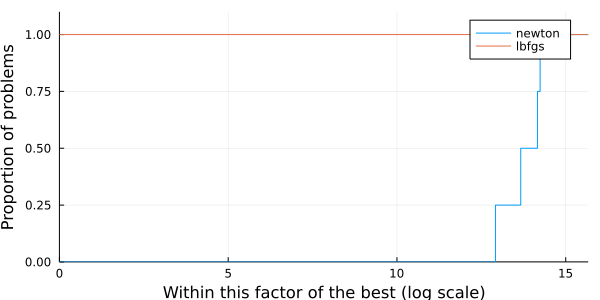
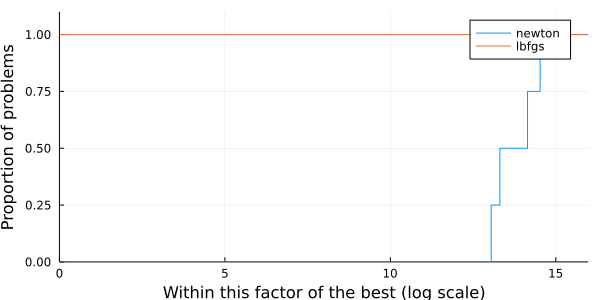
Deploying to gh-pages from  @ f07b95696bff437b7d0e0f80fd7fda0aaac611cb 🚀

diff --git a/index.html b/index.html
@@ -1,14 +1,14 @@
-<!doctype html> <html lang=en  class=has-navbar-fixed-top > <meta charset=UTF-8 > <meta name=viewport  content="width=device-width, initial-scale=1"> <link rel=stylesheet  href="/libs/katex/katex.min.css"> <link rel=stylesheet  href="/css/styles.css"> <style> html {font-size: 17px;} .franklin-content {position: relative; padding-left: 8%; padding-right: 5%; line-height: 1.35em;} @media (min-width: 940px) { .franklin-content {width: 100%; margin-left: auto; margin-right: auto;} } @media (max-width: 768px) { .franklin-content {padding-left: 6%; padding-right: 6%;} } </style> <link rel=icon  href="/assets/favicon.png"> <title>Template</title> <script src="/libs/highlight/highlight.pack.js"></script> <script type=module  src="https://unpkg.com/ionicons@5.5.2/dist/ionicons/ionicons.esm.js"></script> <script nomodule src="https://unpkg.com/ionicons@5.5.2/dist/ionicons/ionicons.js"></script> <script> hljs.getLanguage('julia').keywords.custom = 'obj grad hess AbstractNLPModel'; </script> <nav class="navbar is-primary is-fixed-top" role=navigation  aria-label="main navigation"> <div class=navbar-brand > <a class=navbar-item  href="https://jso-docs.github.io"> <img src="/assets/jso.png"> </a> <a role=button  class=navbar-burger  aria-label=menu  aria-expanded=false  data-target=navbarBasicExample > <span aria-hidden=true ></span> <span aria-hidden=true ></span> <span aria-hidden=true ></span> </a> </div> <div id=navbarBasicExample  class=navbar-menu > <div class=navbar-start > <a class=navbar-item  href="/"> Home </a> <a class=navbar-item  href="/tutorials"> Tutorials </a> <div class="navbar-item has-dropdown is-hoverable"> <a class=navbar-link  href="/ecosystems/index.html"> Ecosystems </a> <div class=navbar-dropdown > <a class=navbar-item  href="/ecosystems/linear-algebra"> Linear Algebra </a> <a class=navbar-item  href="/ecosystems/models"> Models </a> <a class=navbar-item  href="/ecosystems/solvers"> Solvers </a> </div> </div> <a class=navbar-item  href="/references"> References </a> <a class=navbar-item  href="/contributing"> Contributing </a> </div> <div class=navbar-end > <div class=navbar-item > </div> </div> </div> </nav> <section class=section > <div class=container > <div class=content ><div class=franklin-content ><h1 id=title ><a href="#title" class=header-anchor >Template</a></h1></p> <div class=author >by Abel S. Siqueira and João Okimoto</div> <p><img class=badge  src="https://img.shields.io/badge/ADNLPModels-0.3.1-hsl(27,100%25,30%25)?style=flat-square&labelColor=hsl(27,30%25,30%25)"> <img class=badge  src="https://img.shields.io/badge/JSOSolvers-0.7.3-hsl(110,100%25,30%25)?style=flat-square&labelColor=hsl(110,30%25,30%25)"> <img class=badge  src="https://img.shields.io/badge/LinearAlgebra-nothing-666?style=flat-square&labelColor=999"> <img class=badge  src="https://img.shields.io/badge/NLPModels-0.18.0-hsl(193,100%25,30%25)?style=flat-square&labelColor=hsl(193,30%25,30%25)"> <img class=badge  src="https://img.shields.io/badge/Plots-1.25.4-666?style=flat-square&labelColor=999"> <img class=badge  src="https://img.shields.io/badge/SolverBenchmark-0.5.0-hsl(304,100%25,30%25)?style=flat-square&labelColor=hsl(304,30%25,30%25)"> <img class=badge  src="https://img.shields.io/badge/SolverCore-0.2.2-hsl(332,100%25,30%25)?style=flat-square&labelColor=hsl(332,30%25,30%25)"> <p>In this tutorial you will learn what is a JSO-compliant solver, how to create one, and how to benchmark it against some other solver.</p> <div class=franklin-toc ><ol><li><a href="#what_is_a_jso-compliant_solver">What is a JSO-compliant solver</a><li><a href="#method_description">Method description</a><li><a href="#defining_a_test_problem_with_adnlpmodels_and_accessing_its_functions_with_the_nlpmodels_api">Defining a test problem with ADNLPModels and accessing its functions with the NLPModels API</a><li><a href="#improving_the_solver">Improving the solver</a><li><a href="#benchmarking">Benchmarking</a><li><a href="#performance_profiles">Performance profiles</a><li><a href="#improving_the_solver_more">Improving the solver more</a></ol></div> <h2 id=what_is_a_jso-compliant_solver ><a href="#what_is_a_jso-compliant_solver" class=header-anchor >What is a JSO-compliant solver</a></h2> <p>A JSO-compliant solver is a solver whose</p> <ul> <li><p>input is a model implementing the NLPModels API; and</p> <li><p>output is a specific struct from the package SolverCore.</p> </ul> <p>That means that you can devise your solver based on a single API that will work with many different problems. Furthermore, since the output type is known, we can provide tools to compare different solvers.</p> <p>To illustrate the procedure for creating a solver with the JSO API, we&#39;ll implement a Line-Search Modified Newton solver for the problem</p> \[ \min_x \ f(x) \] <h2 id=method_description ><a href="#method_description" class=header-anchor >Method description</a></h2> <p>The method consists of following the direction \(d_k\) that solves</p> \[ \nabla^2 f(x_k) d_k = -\nabla f(x_k) \] <p>This is only reasonable if the system can be solved and \(d_k\) is a descent direction. A sufficient condition for that is that \(\nabla^2 f(x_k)\) is positive definite, which is equivalent to saying that it has a Cholesky decomposition.</p> <p>Since this will not be true in general, the modified Newton method consists of computing \(\rho_k \geq 0\) such that \(\nabla^2 f(x_k) + \rho_k I\) is positive definite. One way to find such a \(\rho_k\) is given below</p> <pre><code class=language-julia >1. Start with ρ from the last iteration
+<!doctype html> <html lang=en  class=has-navbar-fixed-top > <meta charset=UTF-8 > <meta name=viewport  content="width=device-width, initial-scale=1"> <link rel=stylesheet  href="/creating-a-jso-compliant-solver/libs/katex/katex.min.css"> <link rel=stylesheet  href="/creating-a-jso-compliant-solver/css/styles.css"> <style> html {font-size: 17px;} .franklin-content {position: relative; padding-left: 8%; padding-right: 5%; line-height: 1.35em;} @media (min-width: 940px) { .franklin-content {width: 100%; margin-left: auto; margin-right: auto;} } @media (max-width: 768px) { .franklin-content {padding-left: 6%; padding-right: 6%;} } </style> <link rel=icon  href="/creating-a-jso-compliant-solver/assets/favicon.png"> <title>Template</title> <script src="/creating-a-jso-compliant-solver/libs/highlight/highlight.pack.js"></script> <script type=module  src="https://unpkg.com/ionicons@5.5.2/dist/ionicons/ionicons.esm.js"></script> <script nomodule src="https://unpkg.com/ionicons@5.5.2/dist/ionicons/ionicons.js"></script> <script> hljs.getLanguage('julia').keywords.custom = 'obj grad hess AbstractNLPModel'; </script> <nav class="navbar is-primary is-fixed-top" role=navigation  aria-label="main navigation"> <div class=navbar-brand > <a class=navbar-item  href="https://jso-docs.github.io"> <img src="/creating-a-jso-compliant-solver/assets/jso.png"> </a> <a role=button  class=navbar-burger  aria-label=menu  aria-expanded=false  data-target=navbarBasicExample > <span aria-hidden=true ></span> <span aria-hidden=true ></span> <span aria-hidden=true ></span> </a> </div> <div id=navbarBasicExample  class=navbar-menu > <div class=navbar-start > <a class=navbar-item  href="/creating-a-jso-compliant-solver/"> Home </a> <a class=navbar-item  href="/creating-a-jso-compliant-solver/tutorials"> Tutorials </a> <div class="navbar-item has-dropdown is-hoverable"> <a class=navbar-link  href="/creating-a-jso-compliant-solver/ecosystems/index.html"> Ecosystems </a> <div class=navbar-dropdown > <a class=navbar-item  href="/creating-a-jso-compliant-solver/ecosystems/linear-algebra"> Linear Algebra </a> <a class=navbar-item  href="/creating-a-jso-compliant-solver/ecosystems/models"> Models </a> <a class=navbar-item  href="/creating-a-jso-compliant-solver/ecosystems/solvers"> Solvers </a> </div> </div> <a class=navbar-item  href="/creating-a-jso-compliant-solver/references"> References </a> <a class=navbar-item  href="/creating-a-jso-compliant-solver/contributing"> Contributing </a> </div> <div class=navbar-end > <div class=navbar-item > </div> </div> </div> </nav> <section class=section > <div class=container > <div class=content ><div class=franklin-content ><h1 id=title ><a href="#title" class=header-anchor >Template</a></h1></p> <div class=author >by Abel S. Siqueira and João Okimoto</div> <p><img class=badge  src="https://img.shields.io/badge/ADNLPModels-0.3.1-hsl(27,100%25,30%25)?style=flat-square&labelColor=hsl(27,30%25,30%25)"> <img class=badge  src="https://img.shields.io/badge/JSOSolvers-0.7.3-hsl(110,100%25,30%25)?style=flat-square&labelColor=hsl(110,30%25,30%25)"> <img class=badge  src="https://img.shields.io/badge/LinearAlgebra-nothing-666?style=flat-square&labelColor=999"> <img class=badge  src="https://img.shields.io/badge/NLPModels-0.18.0-hsl(193,100%25,30%25)?style=flat-square&labelColor=hsl(193,30%25,30%25)"> <img class=badge  src="https://img.shields.io/badge/Plots-1.25.4-666?style=flat-square&labelColor=999"> <img class=badge  src="https://img.shields.io/badge/SolverBenchmark-0.5.0-hsl(304,100%25,30%25)?style=flat-square&labelColor=hsl(304,30%25,30%25)"> <img class=badge  src="https://img.shields.io/badge/SolverCore-0.2.2-hsl(332,100%25,30%25)?style=flat-square&labelColor=hsl(332,30%25,30%25)"> <p>In this tutorial you will learn what is a JSO-compliant solver, how to create one, and how to benchmark it against some other solver.</p> <div class=franklin-toc ><ol><li><a href="#what_is_a_jso-compliant_solver">What is a JSO-compliant solver</a><li><a href="#method_description">Method description</a><li><a href="#defining_a_test_problem_with_adnlpmodels_and_accessing_its_functions_with_the_nlpmodels_api">Defining a test problem with ADNLPModels and accessing its functions with the NLPModels API</a><li><a href="#improving_the_solver">Improving the solver</a><li><a href="#benchmarking">Benchmarking</a><li><a href="#performance_profiles">Performance profiles</a><li><a href="#improving_the_solver_more">Improving the solver more</a></ol></div> <h2 id=what_is_a_jso-compliant_solver ><a href="#what_is_a_jso-compliant_solver" class=header-anchor >What is a JSO-compliant solver</a></h2> <p>A JSO-compliant solver is a solver whose</p> <ul> <li><p>input is a model implementing the NLPModels API; and</p> <li><p>output is a specific struct from the package SolverCore.</p> </ul> <p>That means that you can devise your solver based on a single API that will work with many different problems. Furthermore, since the output type is known, we can provide tools to compare different solvers.</p> <p>To illustrate the procedure for creating a solver with the JSO API, we&#39;ll implement a Line-Search Modified Newton solver for the problem</p> \[ \min_x \ f(x) \] <h2 id=method_description ><a href="#method_description" class=header-anchor >Method description</a></h2> <p>The method consists of following the direction \(d_k\) that solves</p> \[ \nabla^2 f(x_k) d_k = -\nabla f(x_k) \] <p>This is only reasonable if the system can be solved and \(d_k\) is a descent direction. A sufficient condition for that is that \(\nabla^2 f(x_k)\) is positive definite, which is equivalent to saying that it has a Cholesky decomposition.</p> <p>Since this will not be true in general, the modified Newton method consists of computing \(\rho_k \geq 0\) such that \(\nabla^2 f(x_k) + \rho_k I\) is positive definite. One way to find such a \(\rho_k\) is given below</p> <pre><code class=language-julia >1. Start with ρ from the last iteration
 2. Try to compute the Cholesky factor of ∇²f&#40;x&#41; &#43; ρI
 3. If not successful, increase ρ to either 1e-8 or 10ρ, whichever is largest, and return to step 2
 4. Otherwise, continue the algorithm</code></pre> <p>Next, for the line-search part, we use backtracking and ask that the Armijo condition be satisfied, that is find the smallest \(p \in \mathbb{N}\) such that \(t = σ^p\) satisfies</p> \[ f(x_k + td_k) < f(x_k) + \alpha t g_k^T d_k, \] <p>for \(\alpha \in (0,1)\), called the Armijo parameter.</p> <h2 id=defining_a_test_problem_with_adnlpmodels_and_accessing_its_functions_with_the_nlpmodels_api ><a href="#defining_a_test_problem_with_adnlpmodels_and_accessing_its_functions_with_the_nlpmodels_api" class=header-anchor >Defining a test problem with ADNLPModels and accessing its functions with the NLPModels API</a></h2> <p>Let&#39;s define a test problem to verify that our method is working, and let&#39;s use a classic one: Rosenbrock&#39;s function<sup id="fnref:1"><a href="#fndef:1" class=fnref >[1]</a></sup></p> \[ \min_x \ (x_1 - 1)^2 + 4 (x_2 - x_1^2)^2, \] <p>starting from point &#91;-1.2; 1.0&#93;.</p> <pre><code class=language-julia >using Plots
 gr&#40;size&#61;&#40;600,300&#41;&#41;
-contour&#40;-2:0.02:2, -0.5:0.02:1.5, &#40;x,y&#41; -&gt; &#40;x - 1&#41;^2 &#43; 4 * &#40;y - x^2&#41;^2, levels&#61;&#40;0:0.2:10&#41;.^2&#41;</code></pre> <img src="/assets/index/code/output/prob1.png" alt="Contour plot of objective"> <p>Notice that the solution of the problem, i.e., the point at which the function is minimum, is \(x = (1,1)^T\). This can be estimated by the plot and verified by noticing that \(f(1,1) = 0\) and \(f(x) > 0\) for any other point.</p> <p>To write this problem as a NLPModel, we have a few options, but for now let&#39;s consider the simplest one: ADNLPModels. ADNLPModels has a simple interface and it computes the derivatives using automatic differentiation from other packages.</p> <pre><code class=language-julia >using ADNLPModels
+contour&#40;-2:0.02:2, -0.5:0.02:1.5, &#40;x,y&#41; -&gt; &#40;x - 1&#41;^2 &#43; 4 * &#40;y - x^2&#41;^2, levels&#61;&#40;0:0.2:10&#41;.^2&#41;</code></pre> <img src="/creating-a-jso-compliant-solver/assets/index/code/output/prob1.png" alt="Contour plot of objective"> <p>Notice that the solution of the problem, i.e., the point at which the function is minimum, is \(x = (1,1)^T\). This can be estimated by the plot and verified by noticing that \(f(1,1) = 0\) and \(f(x) > 0\) for any other point.</p> <p>To write this problem as a NLPModel, we have a few options, but for now let&#39;s consider the simplest one: ADNLPModels. ADNLPModels has a simple interface and it computes the derivatives using automatic differentiation from other packages.</p> <pre><code class=language-julia >using ADNLPModels
 
 nlp &#61; ADNLPModel&#40;
   x -&gt; &#40;x&#91;1&#93; - 1&#41;^2 &#43; 4 * &#40;x&#91;2&#93; - x&#91;1&#93;^2&#41;^2, # function
   &#91;-1.2; 1.0&#93; # starting point
-&#41;</code></pre><pre><code class="plaintext code-output">ADNLPModel - Model with automatic differentiation backend ADNLPModels.ForwardDiffAD{ForwardDiff.GradientConfig{ForwardDiff.Tag{var"#3#4", Float64}, Float64, 2, Vector{ForwardDiff.Dual{ForwardDiff.Tag{var"#3#4", Float64}, Float64, 2}}}}(3, 0, ForwardDiff.GradientConfig{ForwardDiff.Tag{var"#3#4", Float64}, Float64, 2, Vector{ForwardDiff.Dual{ForwardDiff.Tag{var"#3#4", Float64}, Float64, 2}}}((Partials(1.0, 0.0), Partials(0.0, 1.0)), ForwardDiff.Dual{ForwardDiff.Tag{var"#3#4", Float64}, Float64, 2}[Dual{ForwardDiff.Tag{var"#3#4", Float64}}(0.0,6.9173848625733e-310,6.9173851580222e-310), Dual{ForwardDiff.Tag{var"#3#4", Float64}}(0.0,6.9173848625733e-310,6.9173848572627e-310)]))
+&#41;</code></pre><pre><code class="plaintext code-output">ADNLPModel - Model with automatic differentiation backend ADNLPModels.ForwardDiffAD{ForwardDiff.GradientConfig{ForwardDiff.Tag{var"#3#4", Float64}, Float64, 2, Vector{ForwardDiff.Dual{ForwardDiff.Tag{var"#3#4", Float64}, Float64, 2}}}}(3, 0, ForwardDiff.GradientConfig{ForwardDiff.Tag{var"#3#4", Float64}, Float64, 2, Vector{ForwardDiff.Dual{ForwardDiff.Tag{var"#3#4", Float64}, Float64, 2}}}((Partials(1.0, 0.0), Partials(0.0, 1.0)), ForwardDiff.Dual{ForwardDiff.Tag{var"#3#4", Float64}, Float64, 2}[Dual{ForwardDiff.Tag{var"#3#4", Float64}}(0.0,6.94900583242587e-310,6.94900583242587e-310), Dual{ForwardDiff.Tag{var"#3#4", Float64}}(0.0,6.9490036918434e-310,6.94900368653276e-310)]))
   Problem name: Generic
    All variables: ████████████████████ 2      All constraints: ⋅⋅⋅⋅⋅⋅⋅⋅⋅⋅⋅⋅⋅⋅⋅⋅⋅⋅⋅⋅ 0     
             free: ████████████████████ 2                 free: ⋅⋅⋅⋅⋅⋅⋅⋅⋅⋅⋅⋅⋅⋅⋅⋅⋅⋅⋅⋅ 0     
@@ -46,7 +46,7 @@ obj&#40;nlp, x&#41;</code></pre><pre><code class="plaintext code-output">5.61440
 <pre><code class=language-julia >hess&#40;nlp, x&#41;</code></pre><pre><code class="plaintext code-output">2×2 LinearAlgebra.Symmetric{Float64, Matrix{Float64}}:
  55.12  19.2
  19.2    8.0</code></pre>
-<p>For our basic unconstrained solver that&#39;s enough. If you want more functions, check the <a href="/pages/references/NLPModels/">NLPModels reference guide</a>.</p>
+<p>For our basic unconstrained solver that&#39;s enough. If you want more functions, check the <a href="/creating-a-jso-compliant-solver/pages/references/NLPModels/">NLPModels reference guide</a>.</p>
 <p>Notice that the Hessian returned from <code>hess</code> has only the lower triangle. That&#39;s done, in general, to avoid storing repeated elements. In this dense case, this isn&#39;t much helpful, so we can simply use <code>Symmetric</code> to fill the rest.</p>
 <pre><code class=language-julia >using LinearAlgebra
 
@@ -70,8 +70,8 @@ while &#33;issuccess&#40;factor&#41;
   factor &#61; cholesky&#40;B &#43; ρ * I, check&#61;false&#41;
 end
 d &#61; factor \ -grad&#40;nlp, x&#41;</code></pre><pre><code class="plaintext code-output">2-element Vector{Float64}:
-  0.48672566371681447
- -0.7281415929203547</code></pre>
+  0.4867256637168144
+ -0.7281415929203545</code></pre>
 <p>The second part of our method is the step length computation. Let&#39;s use <code>α &#61; 1e-2</code> for our Armijo parameter.</p>
 <pre><code class=language-julia >α &#61; 1e-2
 t &#61; 1.0
@@ -244,7 +244,7 @@ print&#40;output&#41;</code></pre><pre><code class="plaintext code-output">Gener
   dual feasibility: 4.018046284781729e-9
   solution: [0.9999999986742657  0.9999999970013461]
   iterations: 18
-  elapsed time: 0.7924270629882812
+  elapsed time: 0.8486878871917725
 </code></pre>
 <p>And to compare both solvers, we need a collection of problems. Let&#39;s just create one manually for now.</p>
 <pre><code class=language-julia >problems &#61; &#91;
@@ -262,18 +262,18 @@ stats &#61; bmark_solvers&#40;solvers, problems&#41;</code></pre><pre><code clas
  Row │ id     name     nvar   ncon   nequ   status       objective     elapsed_time  iter   dual_feas  primal_feas  neval_obj  neval_grad  neval_cons  neval_jcon  neval_jgrad  neval_jac  neval_jprod  neval_jtprod  neval_hess  neval_hprod  neval_jhess  neval_jhprod  neval_residual  neval_jac_residual  neval_jprod_residual  neval_jtprod_residual  neval_hess_residual  neval_jhess_residual  neval_hprod_residual  extrainfo
      │ Int64  String   Int64  Int64  Int64  Symbol       Float64       Float64       Int64  Float64    Float64      Int64      Int64       Int64       Int64       Int64        Int64      Int64        Int64         Int64       Int64        Int64        Int64         Int64           Int64               Int64                 Int64                  Int64                Int64                 Int64                 String
 ─────┼────────────────────────────────────────────────────────────────────────────────────────────────────────────────────────────────────────────────────────────────────────────────────────────────────────────────────────────────────────────────────────────────────────────────────────────────────────────────────────────────────────────────────────────────────────────────────────────────────────────────────────────────
-   1 │     1  Generic      2      0      0  first_order   2.46519e-31      0.443663      1        Inf          0.0          3           4           0           0            0          0            0             0           1            0            0             0               0                   0                     0                      0                    0                     0                     0
-   2 │     2  Generic      2      0      0  first_order   3.74398e-21      0.511153     21        Inf          0.0         50          64           0           0            0          0            0             0          21            0            0             0               0                   0                     0                      0                    0                     0                     0
-   3 │     3  Generic      2      0      0  max_iter     -8.36356          0.443352    100        Inf          0.0        201         301           0           0            0          0            0             0         100            0            0             0               0                   0                     0                      0                    0                     0                     0
-   4 │     4  Generic      2      0      0  first_order   1.43195          0.476491      5        Inf          0.0         12          16           0           0            0          0            0             0           5            0            0             0               0                   0                     0                      0                    0                     0                     0
+   1 │     1  Generic      2      0      0  first_order   2.46519e-31      0.425986      1        Inf          0.0          3           4           0           0            0          0            0             0           1            0            0             0               0                   0                     0                      0                    0                     0                     0
+   2 │     2  Generic      2      0      0  first_order   3.74398e-21      0.534634     21        Inf          0.0         50          64           0           0            0          0            0             0          21            0            0             0               0                   0                     0                      0                    0                     0                     0
+   3 │     3  Generic      2      0      0  max_iter     -8.36356          0.453488    100        Inf          0.0        201         301           0           0            0          0            0             0         100            0            0             0               0                   0                     0                      0                    0                     0                     0
+   4 │     4  Generic      2      0      0  first_order   1.43195          0.494886      5        Inf          0.0         12          16           0           0            0          0            0             0           5            0            0             0               0                   0                     0                      0                    0                     0                     0
   :lbfgs => 4×31 DataFrame
  Row │ id     name     nvar   ncon   nequ   status       objective     elapsed_time  iter   dual_feas   primal_feas  neval_obj  neval_grad  neval_cons  neval_jcon  neval_jgrad  neval_jac  neval_jprod  neval_jtprod  neval_hess  neval_hprod  neval_jhess  neval_jhprod  neval_residual  neval_jac_residual  neval_jprod_residual  neval_jtprod_residual  neval_hess_residual  neval_jhess_residual  neval_hprod_residual  extrainfo
      │ Int64  String   Int64  Int64  Int64  Symbol       Float64       Float64       Int64  Float64     Float64      Int64      Int64       Int64       Int64       Int64        Int64      Int64        Int64         Int64       Int64        Int64        Int64         Int64           Int64               Int64                 Int64                  Int64                Int64                 Int64                 String
 ─────┼─────────────────────────────────────────────────────────────────────────────────────────────────────────────────────────────────────────────────────────────────────────────────────────────────────────────────────────────────────────────────────────────────────────────────────────────────────────────────────────────────────────────────────────────────────────────────────────────────────────────────────────────────
-   1 │     1  Generic      2      0      0  first_order   2.26824e-16    3.40939e-5      8  5.28297e-8          0.0         11          10           0           0            0          0            0             0           0            0            0             0               0                   0                     0                      0                    0                     0                     0
-   2 │     2  Generic      2      0      0  first_order   1.44561e-17    6.60419e-5     39  8.41132e-8          0.0         52          45           0           0            0          0            0             0           0            0            0             0               0                   0                     0                      0                    0                     0                     0
-   3 │     3  Generic      2      0      0  first_order  -8.37235        2.28882e-5     12  1.60958e-9          0.0         17          15           0           0            0          0            0             0           0            0            0             0               0                   0                     0                      0                    0                     0                     0
-   4 │     4  Generic      2      0      0  first_order   1.43195        2.59876e-5      9  4.18646e-9          0.0         11          11           0           0            0          0            0             0           0            0            0             0               0                   0                     0                      0                    0                     0                     0</code></pre>
+   1 │     1  Generic      2      0      0  first_order   2.26824e-16    4.19617e-5      8  5.28297e-8          0.0         11          10           0           0            0          0            0             0           0            0            0             0               0                   0                     0                      0                    0                     0                     0
+   2 │     2  Generic      2      0      0  first_order   1.44561e-17    6.31809e-5     39  8.41132e-8          0.0         52          45           0           0            0          0            0             0           0            0            0             0               0                   0                     0                      0                    0                     0                     0
+   3 │     3  Generic      2      0      0  first_order  -8.37235        2.5034e-5      12  1.60958e-9          0.0         17          15           0           0            0          0            0             0           0            0            0             0               0                   0                     0                      0                    0                     0                     0
+   4 │     4  Generic      2      0      0  first_order   1.43195        2.09808e-5      9  4.18646e-9          0.0         11          11           0           0            0          0            0             0           0            0            0             0               0                   0                     0                      0                    0                     0                     0</code></pre>
 <p>The results is a Dictionary of Symbols to DataFrame tables.</p>
 <pre><code class=language-julia >@show typeof&#40;stats&#41;
 @show keys&#40;stats&#41;</code></pre><pre><code class="plaintext code-output">typeof(stats) = Dict{Symbol, DataFrames.DataFrame}
@@ -284,10 +284,10 @@ keys(stats) = [:newton, :lbfgs]
 pretty_stats&#40;stats&#91;:newton&#93;&#91;&#33;, cols&#93;&#41;</code></pre><pre><code class="plaintext code-output">┌─────────┬─────────────┬───────────┬──────────────┬────────┐
 │    name │      status │ objective │ elapsed_time │   iter │
 ├─────────┼─────────────┼───────────┼──────────────┼────────┤
-│ Generic │ first_order │  2.47e-31 │     4.44e-01 │      1 │
-│ Generic │ first_order │  3.74e-21 │     5.11e-01 │     21 │
-│ Generic │    max_iter │ -8.36e+00 │     4.43e-01 │    100 │
-│ Generic │ first_order │  1.43e+00 │     4.76e-01 │      5 │
+│ Generic │ first_order │  2.47e-31 │     4.26e-01 │      1 │
+│ Generic │ first_order │  3.74e-21 │     5.35e-01 │     21 │
+│ Generic │    max_iter │ -8.36e+00 │     4.53e-01 │    100 │
+│ Generic │ first_order │  1.43e+00 │     4.95e-01 │      5 │
 └─────────┴─────────────┴───────────┴──────────────┴────────┘
 </code></pre>
 <p>We can also create a similar table in .tex format, using something like</p>
@@ -299,11 +299,11 @@ end</code></pre>
 <p>Lastly, for comparison of the methods, it is costumary to show a Performance Profile.<sup id="fnref:2"><a href="#fndef:2" class=fnref >[2]</a></sup> Internally we use the package BenchmarkProfiles, though using <code>performance_profile</code> from SolverBenchmark will actually work directly with the output of <code>bmark_solvers</code>.</p>
 <pre><code class=language-julia >using Plots
 performance_profile&#40;stats, df -&gt; df.elapsed_time&#41;</code></pre>
-<img src="/assets/index/code/output/perfprof.png" alt="Performance profile">
+<img src="/creating-a-jso-compliant-solver/assets/index/code/output/perfprof.png" alt="Performance profile">
 <p>Notice how the profile indicate that all problems were solved by <code>newton</code>, although it is clearly not the case. That happens because our cost function for the performance profile was only the elapsed time. A better approach would be something like.</p>
 <pre><code class=language-julia >cost&#40;df&#41; &#61; &#40;df.status .&#33;&#61; :first_order&#41; * Inf &#43; df.elapsed_time
 performance_profile&#40;stats, cost&#41;</code></pre>
-<img src="/assets/index/code/output/perfprof2.png" alt="Performance profile">
+<img src="/creating-a-jso-compliant-solver/assets/index/code/output/perfprof2.png" alt="Performance profile">
 <h2 id=improving_the_solver_more ><a href="#improving_the_solver_more" class=header-anchor >Improving the solver more</a></h2>
 <p>Although we did implement the proposed method, we could improve the code a little bit. The following function is an improvement of the code in a few points:</p>
 <ul>
@@ -391,7 +391,7 @@ end</code></pre><pre><code class="plaintext code-output">newton2 (generic functi
 stats &#61; bmark_solvers&#40;solvers, problems&#41;
 cost&#40;df&#41; &#61; &#40;df.status .&#33;&#61; :first_order&#41; * Inf &#43; df.elapsed_time
 performance_profile&#40;stats, cost&#41;</code></pre>
-<img src="/assets/index/code/output/perfprof3.png" alt="Performance profile">
+<img src="/creating-a-jso-compliant-solver/assets/index/code/output/perfprof3.png" alt="Performance profile">
 <p><table class=fndef  id="fndef:1">
     <tr>
         <td class=fndef-backref ><a href="#fnref:1">[1]</a>
@@ -413,8 +413,8 @@ performance_profile&#40;stats, cost&#41;</code></pre>
   </section>  
 
     
-        <script src="/libs/katex/katex.min.js"></script>
-<script src="/libs/katex/auto-render.min.js"></script>
+        <script src="/creating-a-jso-compliant-solver/libs/katex/katex.min.js"></script>
+<script src="/creating-a-jso-compliant-solver/libs/katex/auto-render.min.js"></script>
 <script>renderMathInElement(document.body)</script>
 
     
@@ -426,7 +426,7 @@ performance_profile&#40;stats, cost&#41;</code></pre>
     <footer class=footer >
       <div class="content has-text-centered is-small">
         &copy; Abel Soares Siqueira. <br>
-        Last modified: December 30, 2021.<br>
+        Last modified: December 31, 2021.<br>
         <a ckass=link  href="https://github.com/jso-docs/">jso-docs at GitHub</a>
       </div>
     </footer>

diff --git a/tag/jso-compliant/index.html b/tag/jso-compliant/index.html
@@ -1,1 +1,1 @@
-<!doctype html> <html lang=en > <meta charset=UTF-8 > <meta name=viewport  content="width=device-width, initial-scale=1"> <link rel=stylesheet  href="/libs/katex/katex.min.css"> <link rel=stylesheet  href="/css/styles.css"> <style> html {font-size: 17px;} .franklin-content {position: relative; padding-left: 8%; padding-right: 5%; line-height: 1.35em;} @media (min-width: 940px) { .franklin-content {width: 100%; margin-left: auto; margin-right: auto;} } @media (max-width: 768px) { .franklin-content {padding-left: 6%; padding-right: 6%;} } </style> <link rel=icon  href="/assets/favicon.png"> <title>Tag: jso-compliant</title> <div class=""> <h1>Tag: jso-compliant</h1> <ul><li><a href="/">Template</a></ul> </div>
+<!doctype html> <html lang=en > <meta charset=UTF-8 > <meta name=viewport  content="width=device-width, initial-scale=1"> <link rel=stylesheet  href="/creating-a-jso-compliant-solver/libs/katex/katex.min.css"> <link rel=stylesheet  href="/creating-a-jso-compliant-solver/css/styles.css"> <style> html {font-size: 17px;} .franklin-content {position: relative; padding-left: 8%; padding-right: 5%; line-height: 1.35em;} @media (min-width: 940px) { .franklin-content {width: 100%; margin-left: auto; margin-right: auto;} } @media (max-width: 768px) { .franklin-content {padding-left: 6%; padding-right: 6%;} } </style> <link rel=icon  href="/creating-a-jso-compliant-solver/assets/favicon.png"> <title>Tag: jso-compliant</title> <div class=""> <h1>Tag: jso-compliant</h1> <ul><li><a href="/creating-a-jso-compliant-solver/">Template</a></ul> </div>

diff --git a/tag/solvers/index.html b/tag/solvers/index.html
@@ -1,1 +1,1 @@
-<!doctype html> <html lang=en > <meta charset=UTF-8 > <meta name=viewport  content="width=device-width, initial-scale=1"> <link rel=stylesheet  href="/libs/katex/katex.min.css"> <link rel=stylesheet  href="/css/styles.css"> <style> html {font-size: 17px;} .franklin-content {position: relative; padding-left: 8%; padding-right: 5%; line-height: 1.35em;} @media (min-width: 940px) { .franklin-content {width: 100%; margin-left: auto; margin-right: auto;} } @media (max-width: 768px) { .franklin-content {padding-left: 6%; padding-right: 6%;} } </style> <link rel=icon  href="/assets/favicon.png"> <title>Tag: solvers</title> <div class=""> <h1>Tag: solvers</h1> <ul><li><a href="/">Template</a></ul> </div>
+<!doctype html> <html lang=en > <meta charset=UTF-8 > <meta name=viewport  content="width=device-width, initial-scale=1"> <link rel=stylesheet  href="/creating-a-jso-compliant-solver/libs/katex/katex.min.css"> <link rel=stylesheet  href="/creating-a-jso-compliant-solver/css/styles.css"> <style> html {font-size: 17px;} .franklin-content {position: relative; padding-left: 8%; padding-right: 5%; line-height: 1.35em;} @media (min-width: 940px) { .franklin-content {width: 100%; margin-left: auto; margin-right: auto;} } @media (max-width: 768px) { .franklin-content {padding-left: 6%; padding-right: 6%;} } </style> <link rel=icon  href="/creating-a-jso-compliant-solver/assets/favicon.png"> <title>Tag: solvers</title> <div class=""> <h1>Tag: solvers</h1> <ul><li><a href="/creating-a-jso-compliant-solver/">Template</a></ul> </div>

diff --git a/tag/models/index.html b/tag/models/index.html
@@ -1,1 +1,1 @@
-<!doctype html> <html lang=en > <meta charset=UTF-8 > <meta name=viewport  content="width=device-width, initial-scale=1"> <link rel=stylesheet  href="/libs/katex/katex.min.css"> <link rel=stylesheet  href="/css/styles.css"> <style> html {font-size: 17px;} .franklin-content {position: relative; padding-left: 8%; padding-right: 5%; line-height: 1.35em;} @media (min-width: 940px) { .franklin-content {width: 100%; margin-left: auto; margin-right: auto;} } @media (max-width: 768px) { .franklin-content {padding-left: 6%; padding-right: 6%;} } </style> <link rel=icon  href="/assets/favicon.png"> <title>Tag: models</title> <div class=""> <h1>Tag: models</h1> <ul><li><a href="/">Template</a></ul> </div>
+<!doctype html> <html lang=en > <meta charset=UTF-8 > <meta name=viewport  content="width=device-width, initial-scale=1"> <link rel=stylesheet  href="/creating-a-jso-compliant-solver/libs/katex/katex.min.css"> <link rel=stylesheet  href="/creating-a-jso-compliant-solver/css/styles.css"> <style> html {font-size: 17px;} .franklin-content {position: relative; padding-left: 8%; padding-right: 5%; line-height: 1.35em;} @media (min-width: 940px) { .franklin-content {width: 100%; margin-left: auto; margin-right: auto;} } @media (max-width: 768px) { .franklin-content {padding-left: 6%; padding-right: 6%;} } </style> <link rel=icon  href="/creating-a-jso-compliant-solver/assets/favicon.png"> <title>Tag: models</title> <div class=""> <h1>Tag: models</h1> <ul><li><a href="/creating-a-jso-compliant-solver/">Template</a></ul> </div>
